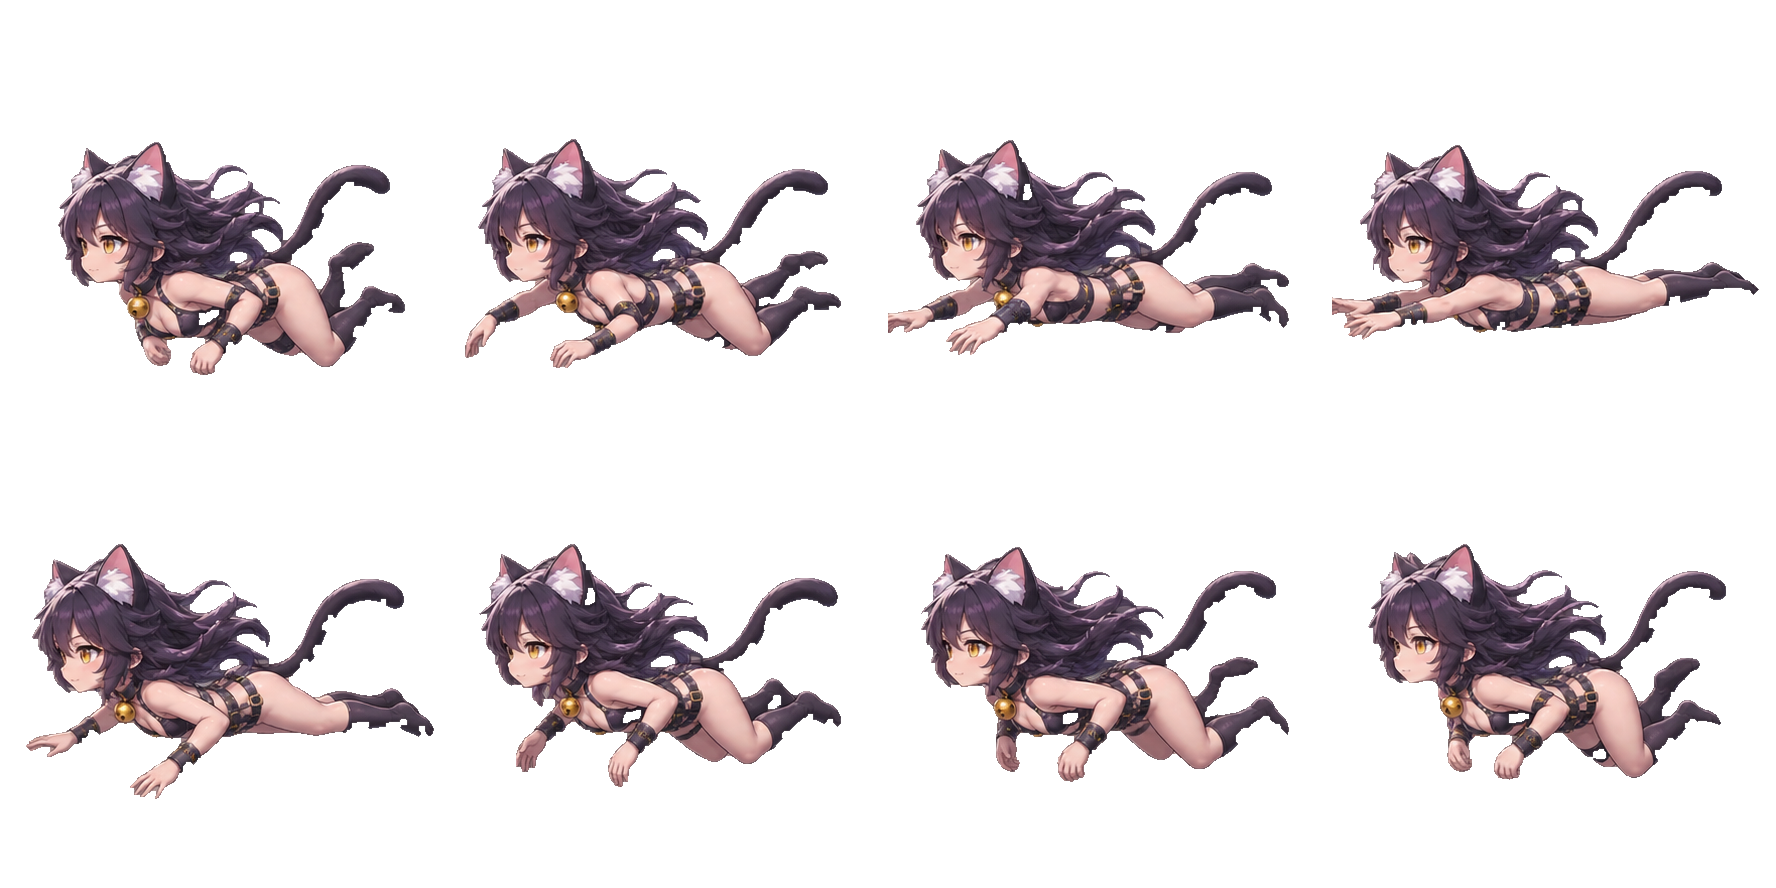
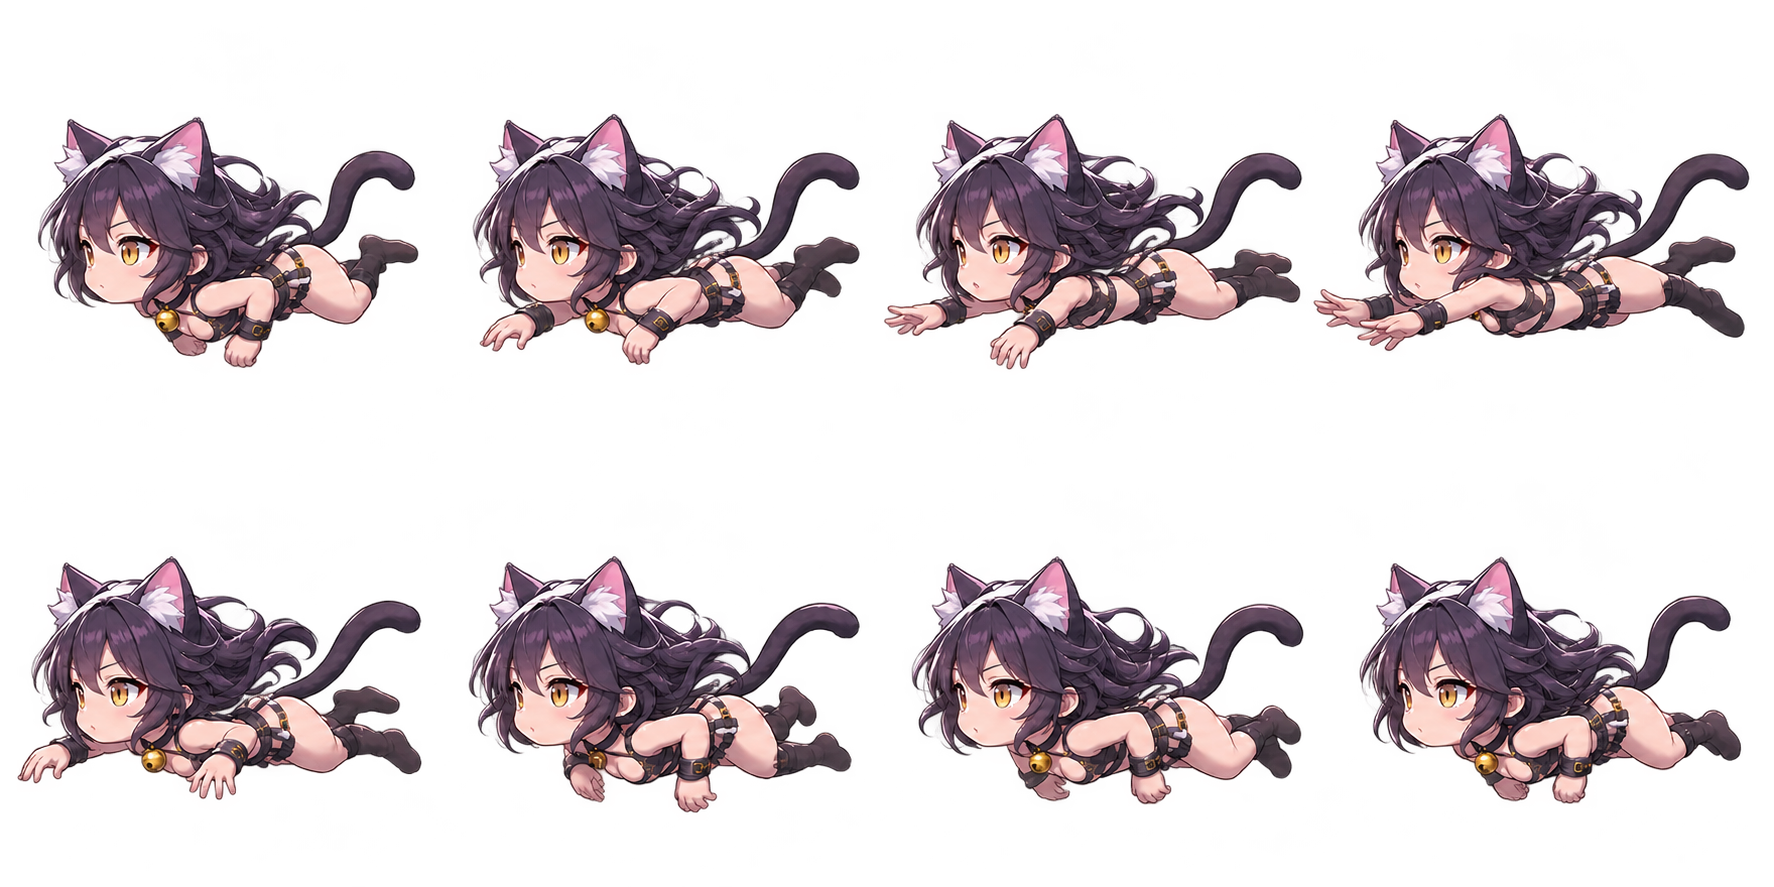
fix(human-fishing): replace 3 sister swim sheets with latest revised artwork and adapt 1774x887 frames

Changed region(s): [[0.0, 0.1218, 0.9921, 0.4262], [0.0, 0.6088, 0.7441, 0.9132], [0.7441, 0.6088, 0.9921, 0.9132]]

diff --git a/human-fishing/human-sprites.js b/human-fishing/human-sprites.js
@@ -31,7 +31,7 @@ if(enabled){
  Object.keys(swimVariantById).forEach(function(id){
   var variant=swimVariantById[id],img=new Image(); // Boot preloads this resource.
   img.decoding='async';
-  img.src='./assets/humans/baby_swim_'+variant+'_8f.png?v='+(Number(id)>=35?'20261112-sisters-v1':Number(id)>=24?'20261111-human-swim11-alpha-v4':'20261111-human-swim4-v1');
+  img.src='./assets/humans/baby_swim_'+variant+'_8f.png?v='+(Number(id)>=35?'20261112-sisters-v2':Number(id)>=24?'20261111-human-swim11-alpha-v4':'20261111-human-swim4-v1');
   swimVariants[id]=img;
  });
 }
@@ -233,7 +233,7 @@ function render(ctx,actor,now,action){
  if(newSwim&&actor.id>=25)sheet={w:1776,h:888,fw:444,fh:444};
  if(newSwim&&Number(actor.id)===35)sheet={w:2172,h:724,fw:543,fh:362};
  // Preserve user-provided source PNG bytes; original grids may be 1774x887.
- if(newSwim&&actor.id>=25&&actor.id<35&&img&&img.naturalWidth===1774&&img.naturalHeight===887)
+ if(newSwim&&actor.id>=25&&img&&img.naturalWidth===1774&&img.naturalHeight===887)
   sheet={w:1774,h:887,fw:443.5,fh:443.5};
  if(!img||!img.complete||img.naturalWidth!==sheet.w||img.naturalHeight!==sheet.h)return false;
  // Human motion reads slightly slower without changing travel speed or catch physics.
@@ -249,7 +249,7 @@ function render(ctx,actor,now,action){
  // Never change actor.size or fishing hitbox/weakspot physics.
  var scale=(mood==='hooked'?.33:.36)*size*(actor.id>=20&&actor.id<24?1.05:1)*HUMAN_WORLD_RENDER_BOOST*
   humanDesignWorldScale(actor.id);
- if(newSwim&&actor.id>=25)scale*=362/(Number(actor.id)===35?543:444);
+ if(newSwim&&actor.id>=25)scale*=362/fw; // match live image cell width, including updated rabbit
  if(newSwim&&actor.id>=35)scale*=sisterWorldScale(actor.id);
  var facing=Number(actor.vx||actor.dir||1)<0?-1:1;
  ctx.save();

diff --git a/human-fishing/index.html b/human-fishing/index.html
@@ -450,7 +450,7 @@ font:800 11px/1.2 system-ui,sans-serif;letter-spacing:.4px}
 <script src="./assets/octopus/octopus-sidekicks.js?v=9-clean-sprite-frames"></script>
 <script src="./assets/humans/ready.js?v=20261110-baby-v1"></script>
 <script src="./assets/humans/sisters-ready.js?v=20261112-sisters-v1"></script>
-<script src="./human-sprites.js?v=20261112-sisters-v1"></script>
+<script src="./human-sprites.js?v=20261112-sisters-v2"></script>
 <script src="./gamepad.js?v=20261110-g8plus-haptics-v2"></script>
 <script src="./foley.js?v=20261111-capture-gun-recordings-v1"></script>
 <script src="./ambient.js?v=20261110-ambient-preload-v3"></script>
@@ -1329,12 +1329,12 @@ function humanUiThumbFrame(id){
  var art=window.HumanFishingBabySprites;
  var img=art&&(typeof art.imageFor==='function'?art.imageFor(id,'swim'):art.images&&art.images.swim);
  if(!img)return null;
- var newer=Number(id)>=24,sisterRabbit=Number(id)===35;
+ var newer=Number(id)>=24;
+ // Revised sister source sheets 1774x887; use 444x444 UI frame crop.
+ var sourceIsOriginal=newer&&Number(id)!==24&&img.naturalWidth===1774&&img.naturalHeight===887;
+ var sisterRabbit=Number(id)===35&&!sourceIsOriginal;
  var fw=sisterRabbit?543:newer&&Number(id)!==24?444:362;
  var fh=sisterRabbit?362:newer&&Number(id)!==24?444:543;
- // Original sheet 1774x887; sister sheets 2172x724 or 1776x888.
- // Use actual sprite aspect ratio and never stretch/crop source body parts.
- var sourceIsOriginal=newer&&Number(id)!==24&&img.naturalWidth===1774&&img.naturalHeight===887;
  if(!img.complete||(!sourceIsOriginal&&(img.naturalWidth!==fw*4||img.naturalHeight!==fh*2))){
   if(!img.complete&&!img._humanUiThumbWaiting&&typeof img.addEventListener==='function'){
    img._humanUiThumbWaiting=true;
